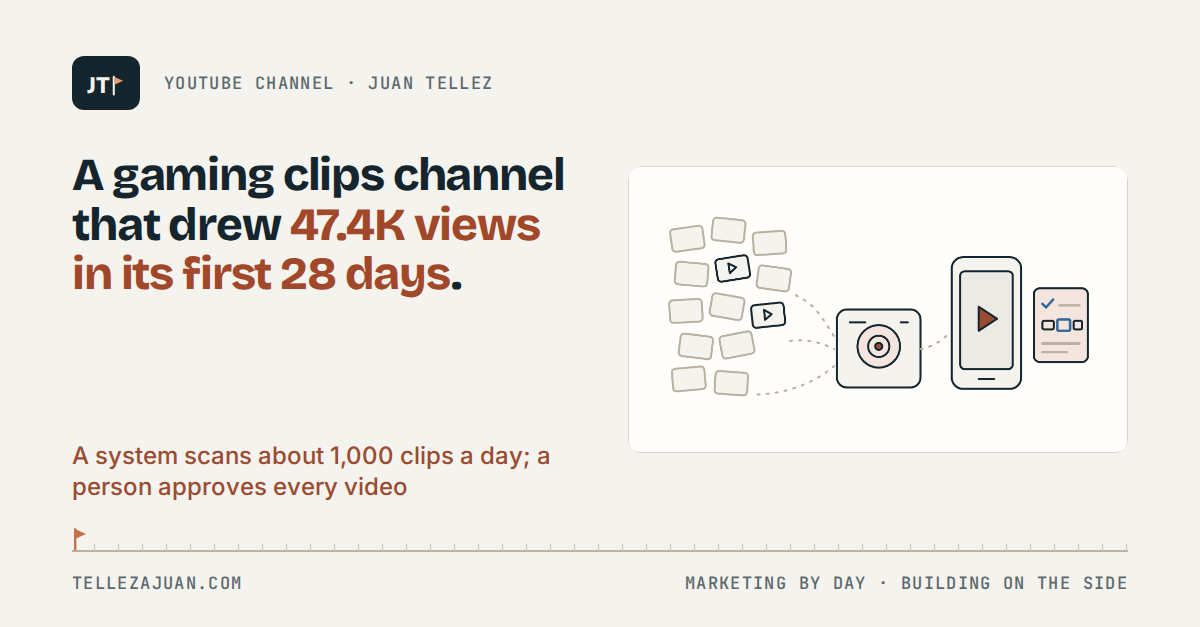
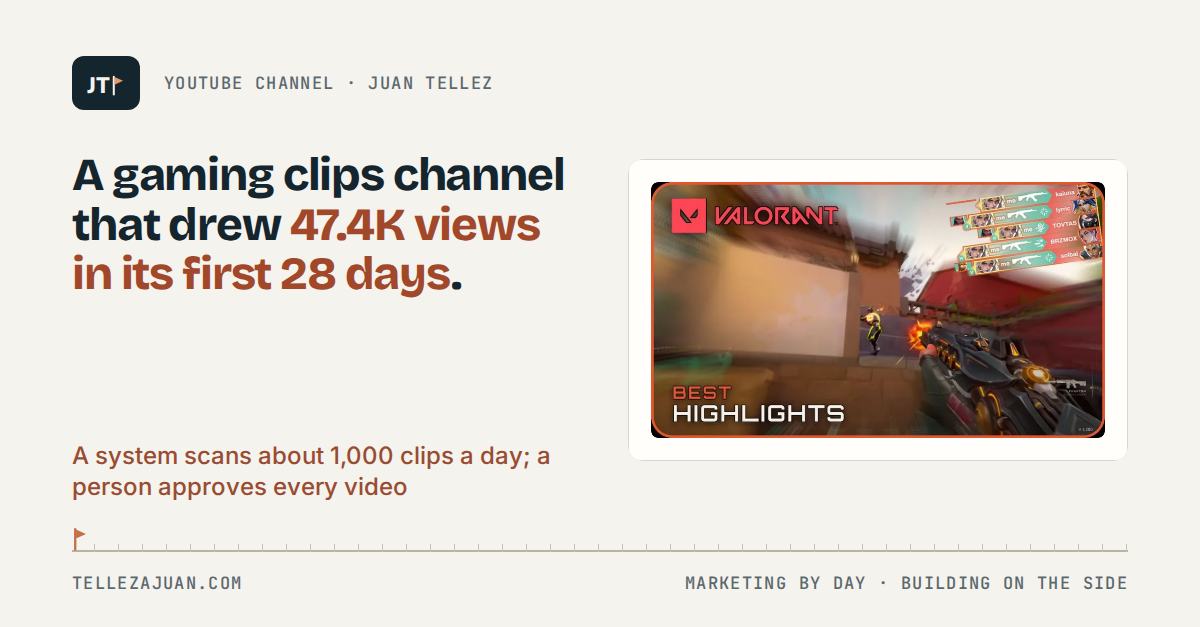
Publish portfolio V4.30: Research headline leads with failure; real thumbnail in the YouTube hero
- Research Lab H1 now says most ideas fail and that is the point; lede and
  Article JSON-LD follow, data-claim spans unchanged.
- YouTube hero shows a real channel thumbnail instead of the drawn
  illustration; the grid below drops that thumbnail so nothing repeats and
  lays the other three out 3-up (one wide, two below on a phone).
- Social cards for both pages regenerated.

Claude-Session: https://claude.ai/code/session_013KYtvkceLnHaZDQAd4PKPV

Changed region(s): [[0.5242, 0.2424, 0.925, 0.7273]]

diff --git a/youtube-channel.html b/youtube-channel.html
@@ -30,7 +30,7 @@
   <link rel="icon" href="assets/icons/favicon.svg" type="image/svg+xml">
   <link rel="icon" href="assets/icons/favicon-32.png" type="image/png" sizes="32x32">
   <link rel="apple-touch-icon" href="assets/icons/apple-touch-icon.png">
-  <link rel="stylesheet" href="style.css?v=730f0d1006">
+  <link rel="stylesheet" href="style.css?v=3f985e3540">
 </head>
 <body data-route="youtube-channel.html" data-recipe="case-study" data-route-role="project">
   <a class="skip-link" href="#main-content">Skip to content</a>
@@ -92,45 +92,9 @@
   <a class="button button-secondary" href="#receipt">See the evidence ↓</a>
   </div>
           </div>
-          <figure class="story-illustration" data-intro-role="visual">
-            <svg class="illo" viewBox="0 0 640 340" role="img" aria-label="A scattered heap of small video clips feeds a film strip into a machine with a camera lens that watches each clip. Out comes one short vertical video on a phone, next to a checklist where a person approves it and picks a thumbnail.">
-  <rect class="illo-faint-box" x="28" y="54" width="46" height="32" rx="5" transform="rotate(-8 51 70)"/>
-  <rect class="illo-faint-box" x="86" y="42" width="46" height="32" rx="5" transform="rotate(6 109 58)"/>
-  <rect class="illo-faint-box" x="144" y="60" width="46" height="32" rx="5" transform="rotate(-4 167 76)"/>
-  <rect class="illo-faint-box" x="34" y="104" width="46" height="32" rx="5" transform="rotate(5 57 120)"/>
-  <rect class="illo-sheet" x="92" y="96" width="46" height="32" rx="5" transform="rotate(-9 115 112)"/>
-  <path class="illo-line" d="M110 104 l10 7 -10 7 Z" transform="rotate(-9 115 112)"/>
-  <rect class="illo-faint-box" x="150" y="110" width="46" height="32" rx="5" transform="rotate(8 173 126)"/>
-  <rect class="illo-faint-box" x="26" y="156" width="46" height="32" rx="5" transform="rotate(-3 49 172)"/>
-  <rect class="illo-faint-box" x="84" y="150" width="46" height="32" rx="5" transform="rotate(10 107 166)"/>
-  <rect class="illo-sheet" x="142" y="162" width="46" height="32" rx="5" transform="rotate(-6 165 178)"/>
-  <path class="illo-line" d="M160 170 l10 7 -10 7 Z" transform="rotate(-6 165 178)"/>
-  <rect class="illo-faint-box" x="40" y="206" width="46" height="32" rx="5" transform="rotate(7 63 222)"/>
-  <rect class="illo-faint-box" x="98" y="204" width="46" height="32" rx="5" transform="rotate(-11 121 220)"/>
-  <rect class="illo-faint-box" x="30" y="252" width="46" height="32" rx="5" transform="rotate(-5 53 268)"/>
-  <rect class="illo-faint-box" x="90" y="258" width="46" height="32" rx="5" transform="rotate(4 113 274)"/>
-  <path class="illo-faint-dots" d="M204 150 C 232 162, 244 186, 258 208"/>
-  <path class="illo-faint-dots" d="M196 214 C 220 212, 240 216, 258 226"/>
-  <path class="illo-faint-dots" d="M150 290 C 196 288, 232 272, 258 250"/>
-  <rect class="illo-sheet" x="262" y="170" width="118" height="110" rx="14"/>
-  <circle class="illo-tint" cx="321" cy="222" r="30"/>
-  <circle class="illo-line" cx="321" cy="222" r="15"/>
-  <circle class="illo-accent" cx="321" cy="222" r="5"/>
-  <path class="illo-line" d="M280 188h22M352 188h10"/>
-  <path class="illo-faint-dots" d="M380 226 C 398 222, 410 214, 420 204"/>
-  <rect class="illo-sheet" x="424" y="96" width="98" height="186" rx="16"/>
-  <rect class="illo-soft" x="436" y="116" width="74" height="138" rx="6"/>
-  <path class="illo-accent" d="M462 166 l26 17 -26 17 Z"/>
-  <path class="illo-line" d="M462 268h22"/>
-  <rect class="illo-tint" x="540" y="140" width="76" height="104" rx="8"/>
-  <path class="illo-signal-line" d="M552 162l5 5 10-11"/>
-  <path class="illo-text" d="M576 164h28"/>
-  <rect class="illo-line" x="552" y="186" width="16" height="12" rx="2"/>
-  <rect class="illo-signal-line" x="573" y="184" width="18" height="16" rx="2"/>
-  <rect class="illo-line" x="596" y="186" width="12" height="12" rx="2"/>
-  <path class="illo-text" d="M552 218h52M552 230h34"/>
-</svg>
-            <figcaption><strong>In one picture:</strong> a huge, messy pile of clips goes in. The system watches each one, builds a vertical video from the best moments, and hands it to me to approve and pick a thumbnail.</figcaption>
+          <figure class="story-illustration story-thumb" data-intro-role="visual">
+            <picture><source srcset="images/cutting-room/thumb-valorant-2026-09-a.webp" type="image/webp"><img src="images/cutting-room/thumb-valorant-2026-09-a.jpg" width="960" height="540" alt="ClipSurgeGG Valorant thumbnail: a first-person shot across an orange courtyard, the Valorant logo, a five-kill feed, and the words Best Highlights." loading="eager" decoding="async"></picture>
+            <figcaption><strong>A real thumbnail from the channel.</strong> The system drafted it from the clip’s own best moment.</figcaption>
           </figure>
         </div>
         <div class="feature-callout">
@@ -197,11 +161,8 @@
       <figure class="media-block">
         <picture><source srcset="images/cutting-room/thumb-rust-2026-08-b.webp" type="image/webp"><img src="images/cutting-room/thumb-rust-2026-08-b.jpg" width="960" height="540" alt="ClipSurgeGG Rust thumbnail: a snowy hillside seen over a wooden wall, with the Rust logo, an inventory panel, and the words Best Highlights." loading="lazy" decoding="async" data-lightbox="true"></picture>
       </figure>
-      <figure class="media-block">
-        <picture><source srcset="images/cutting-room/thumb-valorant-2026-09-a.webp" type="image/webp"><img src="images/cutting-room/thumb-valorant-2026-09-a.jpg" width="960" height="540" alt="ClipSurgeGG Valorant thumbnail: a first-person shot across an orange courtyard, the Valorant logo, a five-kill feed, and the words Best Highlights." loading="lazy" decoding="async" data-lightbox="true"></picture>
-      </figure>
     </div>
-    <p class="caption"><strong>Real thumbnails from the channel.</strong> The gameplay comes from the clips each video features; no creator names or faces are shown. Select one to see it larger.</p>
+    <p class="caption"><strong>Three more from the channel.</strong> The gameplay comes from the clips each video features; no creator names or faces are shown. Select one to see it larger.</p>
   </div>
 </section>
 <section class="site-section" data-intent="metrics" data-template="metric-strip" data-lead="split" data-tone="base" data-attention="component" data-depth="primary" id="audience">

diff --git a/research.html b/research.html
@@ -24,13 +24,13 @@
   <meta name="twitter:image" content="https://www.tellezajuan.com/images/social/research.png">
   <meta name="twitter:image:alt" content="Preview card: Research Lab — Juan Tellez">
   <script type="application/ld+json">{"@context":"https://schema.org","@type":"BreadcrumbList","itemListElement":[{"@type":"ListItem","position":1,"name":"All Projects","item":"https://www.tellezajuan.com/projects.html"},{"@type":"ListItem","position":2,"name":"Research Lab","item":"https://www.tellezajuan.com/research.html"}]}</script>
-  <script type="application/ld+json">{"@context": "https://schema.org", "@type": "Article", "headline": "I test trading and sports-betting ideas without risking a dollar.", "description": "Two research labs that test trading and sports-betting ideas with simulated money only: 1,260 ideas written down, 11 passed every check, and no real dollars.", "image": "https://www.tellezajuan.com/images/social/research.png", "url": "https://www.tellezajuan.com/research.html", "mainEntityOfPage": "https://www.tellezajuan.com/research.html", "dateModified": "2026-10-09", "author": {"@type": "Person", "name": "Juan Tellez", "url": "https://www.tellezajuan.com/"}}</script>
+  <script type="application/ld+json">{"@context": "https://schema.org", "@type": "Article", "headline": "Most of my trading and sports ideas fail. That’s the point.", "description": "Two research labs that test trading and sports-betting ideas with simulated money only: 1,260 ideas written down, 11 passed every check, and no real dollars.", "image": "https://www.tellezajuan.com/images/social/research.png", "url": "https://www.tellezajuan.com/research.html", "mainEntityOfPage": "https://www.tellezajuan.com/research.html", "dateModified": "2026-10-09", "author": {"@type": "Person", "name": "Juan Tellez", "url": "https://www.tellezajuan.com/"}}</script>
   <link rel="preload" href="assets/fonts/bricolage-grotesque-latin.woff2" as="font" type="font/woff2" crossorigin>
   <link rel="preload" href="assets/fonts/inter-latin.woff2" as="font" type="font/woff2" crossorigin>
   <link rel="icon" href="assets/icons/favicon.svg" type="image/svg+xml">
   <link rel="icon" href="assets/icons/favicon-32.png" type="image/png" sizes="32x32">
   <link rel="apple-touch-icon" href="assets/icons/apple-touch-icon.png">
-  <link rel="stylesheet" href="style.css?v=730f0d1006">
+  <link rel="stylesheet" href="style.css?v=3f985e3540">
 </head>
 <body data-route="research.html" data-recipe="case-study" data-route-role="project">
   <a class="skip-link" href="#main-content">Skip to content</a>
@@ -81,12 +81,12 @@
 <header class="page-intro container" data-block="intro">
   <div class="intro-head">
           <p class="eyebrow">Research Lab · simulation only</p>
-          <h1>I test trading and sports-betting ideas <span>without risking a dollar</span>.</h1>
+          <h1>Most of my trading and sports ideas fail. <span>That’s the point.</span></h1>
         </div>
         <div class="intro-grid">
           <div class="intro-copy">
             <p class="intro-subtitle" data-intro-role="primary">Two small labs share one rule. One studies stock options, contracts that let someone buy or sell a stock at a set price later. The other studies sports betting markets. Every idea is written down with what would prove it wrong, tested on past data, and kept away from real money.</p>
-            <p class="intro-lede" data-intro-role="supporting"><span data-claim="opt_verdict_total">446</span> trading ideas and <span data-claim="sp_total">814</span> sports questions so far. Most fail, and that is the point. By my rough estimate the two labs need about half an hour of my attention a day.</p>
+            <p class="intro-lede" data-intro-role="supporting"><span data-claim="opt_verdict_total">446</span> trading ideas and <span data-claim="sp_total">814</span> sports questions so far, all with simulated money. By my rough estimate the two labs need about half an hour of my attention a day.</p>
             <div class="action-row" data-intro-role="action">
   <a class="button button-primary" href="#loop">See how an idea is tested ↓</a>
   <a class="button button-secondary" href="#receipt">See the evidence ↓</a>

diff --git a/style.css b/style.css
@@ -4729,11 +4729,19 @@ body:has([data-draft])::before {
   background: none;
 }
 
-/* On a phone the four thumbnails sit two by two instead of one tall stack. */
+/* Three thumbnails in a row; on a phone, one wide and two below. */
+.media-grid.video-grid {
+  grid-template-columns: repeat(3, minmax(0, 1fr));
+}
+
 @media (max-width: 680px) {
   .media-grid.video-grid {
     grid-template-columns: repeat(2, minmax(0, 1fr));
     gap: 10px;
+  }
+
+  .media-grid.video-grid > :first-child {
+    grid-column: 1 / -1;
   }
 }
 
@@ -5275,4 +5283,12 @@ details.steps-fold > .steps {
     repeating-linear-gradient(90deg, var(--line-strong) 0 1px, transparent 1px 14px) 0 100% / 100% 6px no-repeat,
     linear-gradient(var(--line-strong), var(--line-strong)) 0 100% / 100% 1px no-repeat;
   padding-bottom: 6px;
+}
+
+/* YouTube hero: a real thumbnail in the hero frame. */
+.story-illustration.story-thumb img {
+  display: block;
+  width: 100%;
+  height: auto;
+  border-radius: var(--radius-sm);
 }

diff --git a/marketing-measurement.html b/marketing-measurement.html
@@ -30,7 +30,7 @@
   <link rel="icon" href="assets/icons/favicon.svg" type="image/svg+xml">
   <link rel="icon" href="assets/icons/favicon-32.png" type="image/png" sizes="32x32">
   <link rel="apple-touch-icon" href="assets/icons/apple-touch-icon.png">
-  <link rel="stylesheet" href="style.css?v=730f0d1006">
+  <link rel="stylesheet" href="style.css?v=3f985e3540">
 </head>
 <body data-route="marketing-measurement.html" data-recipe="case-study" data-route-role="project">
   <a class="skip-link" href="#main-content">Skip to content</a>

diff --git a/how-i-work.html b/how-i-work.html
@@ -29,7 +29,7 @@
   <link rel="icon" href="assets/icons/favicon.svg" type="image/svg+xml">
   <link rel="icon" href="assets/icons/favicon-32.png" type="image/png" sizes="32x32">
   <link rel="apple-touch-icon" href="assets/icons/apple-touch-icon.png">
-  <link rel="stylesheet" href="style.css?v=730f0d1006">
+  <link rel="stylesheet" href="style.css?v=3f985e3540">
 </head>
 <body data-route="how-i-work.html" data-recipe="working-method" data-route-role="supporting">
   <a class="skip-link" href="#main-content">Skip to content</a>

diff --git a/how-i-tested-it.html b/how-i-tested-it.html
@@ -30,7 +30,7 @@
   <link rel="icon" href="assets/icons/favicon.svg" type="image/svg+xml">
   <link rel="icon" href="assets/icons/favicon-32.png" type="image/png" sizes="32x32">
   <link rel="apple-touch-icon" href="assets/icons/apple-touch-icon.png">
-  <link rel="stylesheet" href="style.css?v=730f0d1006">
+  <link rel="stylesheet" href="style.css?v=3f985e3540">
 </head>
 <body data-route="how-i-tested-it.html" data-recipe="appendix" data-route-role="appendix">
   <a class="skip-link" href="#main-content">Skip to content</a>

diff --git a/market-scan.html b/market-scan.html
@@ -30,7 +30,7 @@
   <link rel="icon" href="assets/icons/favicon.svg" type="image/svg+xml">
   <link rel="icon" href="assets/icons/favicon-32.png" type="image/png" sizes="32x32">
   <link rel="apple-touch-icon" href="assets/icons/apple-touch-icon.png">
-  <link rel="stylesheet" href="style.css?v=730f0d1006">
+  <link rel="stylesheet" href="style.css?v=3f985e3540">
 </head>
 <body data-route="market-scan.html" data-recipe="case-study" data-route-role="project">
   <a class="skip-link" href="#main-content">Skip to content</a>

diff --git a/projects.html b/projects.html
@@ -29,7 +29,7 @@
   <link rel="icon" href="assets/icons/favicon.svg" type="image/svg+xml">
   <link rel="icon" href="assets/icons/favicon-32.png" type="image/png" sizes="32x32">
   <link rel="apple-touch-icon" href="assets/icons/apple-touch-icon.png">
-  <link rel="stylesheet" href="style.css?v=730f0d1006">
+  <link rel="stylesheet" href="style.css?v=3f985e3540">
 </head>
 <body data-route="projects.html" data-recipe="directory" data-route-role="directory">
   <a class="skip-link" href="#main-content">Skip to content</a>

diff --git a/experience.html b/experience.html
@@ -29,7 +29,7 @@
   <link rel="icon" href="assets/icons/favicon.svg" type="image/svg+xml">
   <link rel="icon" href="assets/icons/favicon-32.png" type="image/png" sizes="32x32">
   <link rel="apple-touch-icon" href="assets/icons/apple-touch-icon.png">
-  <link rel="stylesheet" href="style.css?v=730f0d1006">
+  <link rel="stylesheet" href="style.css?v=3f985e3540">
 </head>
 <body data-route="experience.html" data-recipe="profile" data-route-role="profile">
   <a class="skip-link" href="#main-content">Skip to content</a>

diff --git a/404.html b/404.html
@@ -29,7 +29,7 @@
   <link rel="icon" href="/assets/icons/favicon.svg" type="image/svg+xml">
   <link rel="icon" href="/assets/icons/favicon-32.png" type="image/png" sizes="32x32">
   <link rel="apple-touch-icon" href="/assets/icons/apple-touch-icon.png">
-  <link rel="stylesheet" href="/style.css?v=730f0d1006">
+  <link rel="stylesheet" href="/style.css?v=3f985e3540">
 </head>
 <body data-route="404.html" data-recipe="utility" data-route-role="utility">
   <a class="skip-link" href="#main-content">Skip to content</a>

diff --git a/about-me.html b/about-me.html
@@ -29,7 +29,7 @@
   <link rel="icon" href="assets/icons/favicon.svg" type="image/svg+xml">
   <link rel="icon" href="assets/icons/favicon-32.png" type="image/png" sizes="32x32">
   <link rel="apple-touch-icon" href="assets/icons/apple-touch-icon.png">
-  <link rel="stylesheet" href="style.css?v=730f0d1006">
+  <link rel="stylesheet" href="style.css?v=3f985e3540">
 </head>
 <body data-route="about-me.html" data-recipe="profile" data-route-role="profile">
   <a class="skip-link" href="#main-content">Skip to content</a>

diff --git a/delve.html b/delve.html
@@ -30,7 +30,7 @@
   <link rel="icon" href="assets/icons/favicon.svg" type="image/svg+xml">
   <link rel="icon" href="assets/icons/favicon-32.png" type="image/png" sizes="32x32">
   <link rel="apple-touch-icon" href="assets/icons/apple-touch-icon.png">
-  <link rel="stylesheet" href="style.css?v=730f0d1006">
+  <link rel="stylesheet" href="style.css?v=3f985e3540">
 </head>
 <body data-route="delve.html" data-recipe="case-study" data-route-role="project">
   <a class="skip-link" href="#main-content">Skip to content</a>
